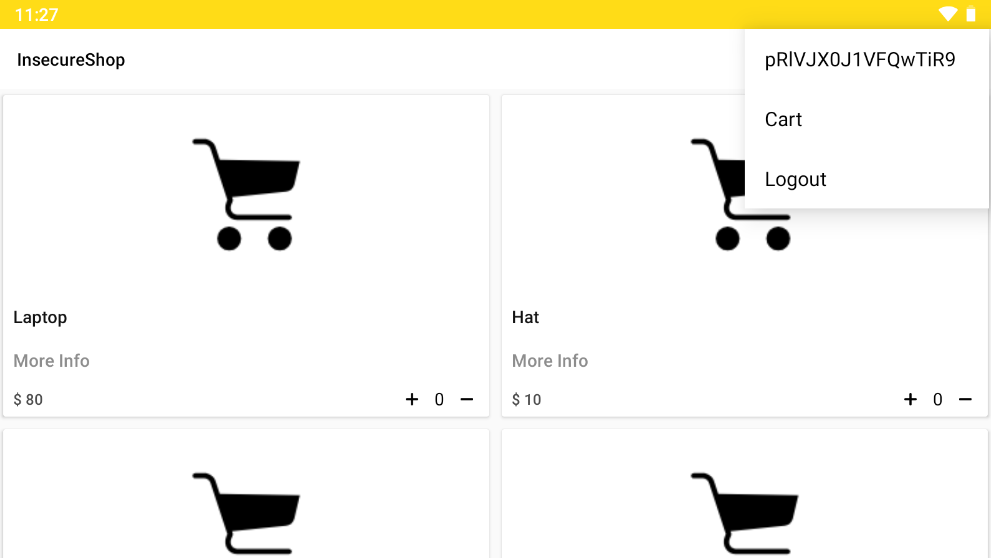
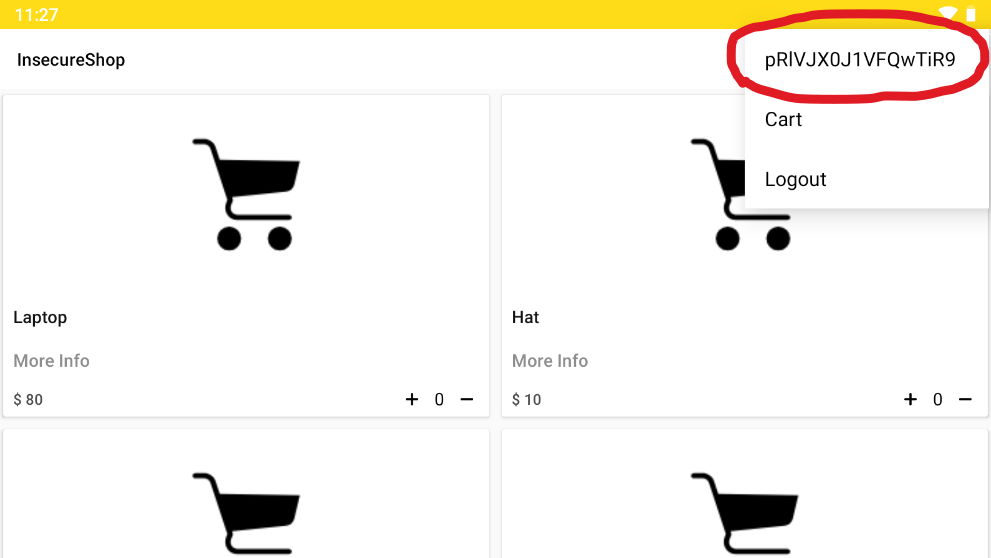
Updated shop and login

Changed region(s): [[0.7265, 0.0, 0.999, 0.2133]]

diff --git a/login/README.md b/login/README.md
@@ -4,27 +4,27 @@
 <img src="challange.png"/>
 </p>
 
-first of all we need to install the app, thats when we see this screen:
+After we install the app, we see this screen:
 
 <p align="center">
 <img src="login.png"/>
 </p>
 
-checking the application activities in jadx:
+Now we open the apk file in jadx to check the app activities:
 
 <p align="center">
 <img src="jadx.png"/>
 </p>
 
-we findout the "EmptyActivity" is what we want to access
+There are 3 activities and the "EmptyActivity" is what we want to access.
 
-So without interruption, we go to decompiling the application, in this case i use APK Easy Tool:
+So let's decompile the application with "APK Easy Tool":
 
 <p align="center">
 <img src="APK Easy Tool.png"/>
 </p>
 
-Go straight to the application manifest file:
+Now we go straight to the application manifest file:
 
 <p align="center">
 <img src="Android Manifest.png"/>
@@ -36,13 +36,15 @@ and easily just change Lunch activity from "MainActivity" to "EmptyActivity" by 
 <img src="After.png"/>
 </p>
 
-compile application and just open it you will see the string:
+Now we compile application and just open it. When we open the app we will see this string:
 
 <p align="center">
 <img src="Result.png"/>
 </p>
 
-decode string from Base64 and find the flag:
+Which looks like a base64.
+
+Now we just decode string from base64 and get the flag:
 
 <p align="center">
 <img src="decode.png"/>

diff --git a/shop/README.md b/shop/README.md
@@ -4,28 +4,28 @@
 <img src="challange.png"/>
 </p>
 
-after installing we see this page :
+After installing the app we see this page:
 
 <p align="center">
 <img src="login.png"/>
 </p>
 
-after analyze application with "jadx" we found username and password here:
+When we check the application with "jadx" we find the username and password here:
 
 <p align="center">
 <img src="jadx.png"/>
 </p>
 
-login with username and password the from top-right click on menu half of flag is here:
+Now we login with username and password. We can see half of the flag in the top-right menu:
 
 <p align="center">
 <img src="secend.png"/>
 </p>
 
-click on it and you will see the other part of flag:
+When we click on it we will see the other part of flag:
 
 <p align="center">
 <img src="first.png"/>
 </p>
 
-merge parts and decod it from Base64 to find the flag
+Now we just merge two parts of the flag and decode it from base64 to find the flag.
